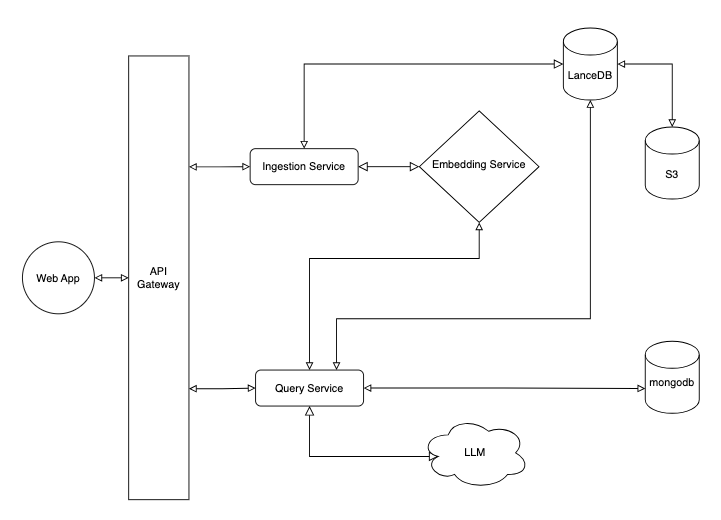
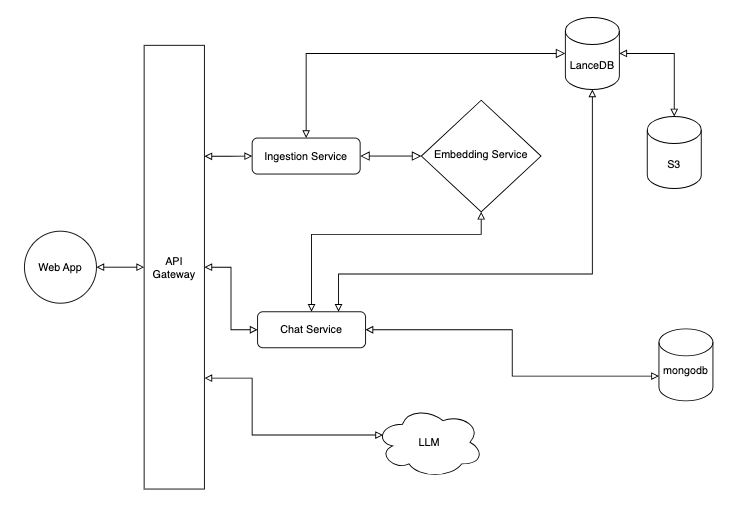
feat: update photo and chats to recall chat history

diff --git a/web/components/Chat/hooks/useChat.ts b/web/components/Chat/hooks/useChat.ts
@@ -5,8 +5,27 @@ import { ChatMessage, RagContext } from '@shared/chat-types'
 import { ConnectionStatus } from '../types'
 import { useWebSocket } from './useWebSocket'
 
+const SESSION_STORAGE_KEY = 'chat_session_id'
+
 function generateId(): string {
   return `${Date.now()}-${Math.random().toString(36).substring(2, 9)}`
+}
+
+function getOrCreateSessionId(providedId?: string): string {
+  if (providedId) return providedId
+
+  // Check localStorage for existing session
+  if (typeof window !== 'undefined') {
+    const stored = localStorage.getItem(SESSION_STORAGE_KEY)
+    if (stored) return stored
+
+    // Create and store new session ID
+    const newId = generateId()
+    localStorage.setItem(SESSION_STORAGE_KEY, newId)
+    return newId
+  }
+
+  return generateId()
 }
 
 interface UseChatOptions {
@@ -23,6 +42,7 @@ interface UseChatReturn {
   sendMessage: (content: string) => void
   clearMessages: () => void
   clearError: () => void
+  sessionId: string
 }
 
 interface StreamMessage {
@@ -34,6 +54,13 @@ interface StreamMessage {
   role?: string
   rag_context?: RagContext[]
   error?: string
+  messages?: Array<{
+    message_id: string
+    role: 'user' | 'assistant'
+    content: string
+    created_at: string
+    rag_context?: RagContext[]
+  }>
 }
 
 export function useChat({ wsUrl, sessionId }: UseChatOptions): UseChatReturn {
@@ -41,8 +68,9 @@ export function useChat({ wsUrl, sessionId }: UseChatOptions): UseChatReturn {
   const [isLoading, setIsLoading] = useState(false)
   const [streamingContent, setStreamingContent] = useState('')
   const [error, setError] = useState<string | null>(null)
+  const [historyLoaded, setHistoryLoaded] = useState(false)
 
-  const currentSessionId = sessionId || generateId()
+  const currentSessionId = useRef(getOrCreateSessionId(sessionId)).current
   const streamingContextRef = useRef<RagContext[] | null>(null)
 
   // Use refs for smooth streaming updates
@@ -82,6 +110,22 @@ export function useChat({ wsUrl, sessionId }: UseChatOptions): UseChatReturn {
     }
 
     switch (data.action) {
+      case 'history':
+        // Load history messages
+        if (data.messages && data.messages.length > 0) {
+          const loadedMessages: ChatMessage[] = data.messages.map((m) => ({
+            message_id: m.message_id,
+            session_id: data.session_id || currentSessionId,
+            role: m.role,
+            content: m.content,
+            created_at: new Date(m.created_at),
+            rag_context: m.rag_context || null,
+          }))
+          setMessages(loadedMessages)
+        }
+        setHistoryLoaded(true)
+        break
+
       case 'chat_stream_start':
         // Store RAG context for later, reset streaming content
         streamingContextRef.current = data.rag_context || null
@@ -168,6 +212,17 @@ export function useChat({ wsUrl, sessionId }: UseChatOptions): UseChatReturn {
     onError: handleError,
   })
 
+  // Fetch history once when connected
+  useEffect(() => {
+    if (status === 'connected' && !historyLoaded) {
+      setHistoryLoaded(true) // Mark as loaded immediately to prevent double-send
+      send({
+        action: 'history',
+        session_id: currentSessionId,
+      })
+    }
+  }, [status, historyLoaded, currentSessionId, send])
+
   const sendMessage = useCallback((content: string) => {
     if (!content.trim()) return
 
@@ -212,5 +267,6 @@ export function useChat({ wsUrl, sessionId }: UseChatOptions): UseChatReturn {
     sendMessage,
     clearMessages,
     clearError,
+    sessionId: currentSessionId,
   }
 }

diff --git a/README.md b/README.md
@@ -157,6 +157,37 @@ Gateway (proxies SSE to WebSocket)
 Web App (displays tokens as they arrive for "typing" effect)
 ```
 
+**Detailed Chat Flow:**
+
+```
+1. Web App → Gateway: "what's the price of gold?"
+
+2. Gateway → Query Service (action: "rag"):
+   - Query Service internally:
+     - Calls Embedding Service → gets vector [0.12, -0.45, ...]
+     - Searches LanceDB with that vector → finds matching entries
+     - Saves user message to MongoDB
+   - Returns to Gateway:
+     - system_prompt: "You are a journal assistant... Relevant entries: [2026-01-27] gold is $5,220..."
+     - rag_context: [{entry_date, text_snippet, score}]
+
+3. Gateway → LLM:
+   - Sends: system_prompt + user message
+   - Receives: streaming tokens
+
+4. Gateway → Web App:
+   - Forwards each token via WebSocket
+
+5. Gateway → Query Service (action: "save_message"):
+   - Saves assistant's complete response to MongoDB
+```
+
+**Key point:** The embedding vector stays inside the Query Service. The Gateway only receives:
+- The **system prompt** (text with RAG context baked in)
+- The **rag_context metadata** (for showing "Sources" in UI)
+
+The Gateway never sees the actual vector—it just passes text to the LLM. The LLM has no knowledge of the Query Service, embeddings, or databases. It simply receives a system prompt (which happens to contain retrieved journal entries) and a user message, then generates a response.
+
 ### Services
 
 | Service | Description |
@@ -887,6 +918,133 @@ This is the core of how RAG applications work:
 ```
 
 The LLM doesn't have direct database access—it only sees what's included in the prompt. This is both a limitation (context window size) and a feature (you control exactly what the LLM knows).
+
+## Architectural Patterns
+
+### CQRS: Command Query Responsibility Segregation
+
+**Core idea:** Separate the code that **reads** data from the code that **writes** data.
+
+**Traditional approach (current implementation):**
+
+```
+┌─────────────────────────────────────┐
+│           Query Service             │
+│                                     │
+│  • searchSimilar() ← READ           │
+│  • getHistory()    ← READ           │
+│  • saveMessage()   ← WRITE          │
+│  • createSession() ← WRITE          │
+└─────────────────────────────────────┘
+```
+
+One service does everything. Simple, but responsibilities are mixed.
+
+**CQRS approach:**
+
+```
+┌─────────────────────────────────────┐      ┌─────────────────────────────────┐
+│           Query Service             │      │         Command Service         │
+│           (READ side)               │      │          (WRITE side)           │
+│                                     │      │                                 │
+│  • searchSimilar()                  │      │  • saveMessage()                │
+│  • getHistory()                     │      │  • createSession()              │
+│  • getSession()                     │      │  • updateSession()              │
+└─────────────────────────────────────┘      └─────────────────────────────────┘
+```
+
+**Terminology:**
+
+| Term | Meaning | Example |
+|------|---------|---------|
+| **Query** | Request that returns data, doesn't change state | "Get chat history" |
+| **Command** | Request that changes state, may not return data | "Save this message" |
+
+**Why separate them?**
+
+1. **Different optimization needs:**
+
+| Reads (Queries) | Writes (Commands) |
+|-----------------|-------------------|
+| Need to be FAST | Need to be RELIABLE |
+| Can use caching | Need validation |
+| Can use read replicas | Need consistency |
+| Can be eventually consistent | Often need transactions |
+
+2. **Different scaling patterns:**
+
+```
+Typical app: 90% reads, 10% writes
+
+Without CQRS:
+┌─────────┐ ┌─────────┐ ┌─────────┐
+│ Service │ │ Service │ │ Service │   ← Scale everything together
+└─────────┘ └─────────┘ └─────────┘
+
+With CQRS:
+┌───────┐ ┌───────┐ ┌───────┐ ┌───────┐ ┌───────┐
+│ Query │ │ Query │ │ Query │ │ Query │ │ Query │   ← Scale reads heavily
+└───────┘ └───────┘ └───────┘ └───────┘ └───────┘
+              ┌─────────┐
+              │ Command │   ← Fewer write instances needed
+              └─────────┘
+```
+
+3. **Different data models:**
+
+```
+Write model (normalized):           Read model (denormalized):
+┌──────────┐  ┌──────────┐         ┌─────────────────────────────┐
+│ sessions │  │ messages │         │     chat_history_view       │
+│──────────│  │──────────│         │─────────────────────────────│
+│ id       │  │ id       │   →     │ session_id                  │
+│ title    │  │ session_id│        │ session_title               │
+│ created  │  │ content   │        │ messages[] (embedded)       │
+└──────────┘  │ role      │        │ last_message_preview        │
+              └──────────┘         └─────────────────────────────┘
+
+Optimized for integrity           Optimized for fast reads
+```
+
+**Applied to this app:**
+
+Current flow (mixed read/write):
+```
+Gateway → Query Service (rag)         ← READ (search)
+                                      ← WRITE (save user message) ❌ mixed
+Gateway → LLM (stream)
+Gateway → Query Service (save_message) ← WRITE
+```
+
+CQRS flow (separated):
+```
+Gateway → Command Service (save user message)  ← WRITE
+Gateway → Query Service (rag)                  ← READ only
+Gateway → LLM (stream)
+Gateway → Command Service (save assistant)     ← WRITE
+```
+
+**When CQRS is overkill:**
+- Small apps with low traffic
+- Simple CRUD with no complex queries
+- Team is small and doesn't need separation
+- Read/write patterns are similar
+
+**When CQRS shines:**
+- High-scale systems (millions of reads)
+- Complex domains with different read/write needs
+- Event-sourced systems
+- Microservices where teams own different concerns
+
+**Related patterns:**
+
+| Pattern | Description |
+|---------|-------------|
+| **CQRS** | Separate read/write code paths |
+| **Event Sourcing** | Store events, not state. Rebuild state from events. |
+| **CQRS + Event Sourcing** | Commands emit events, queries read from projections |
+
+**Current decision:** This app uses a mixed approach (Query Service handles both reads and writes) because the scale doesn't justify the added complexity. CQRS would be considered if scaling requirements change.
 
 ## Known Limitations
 
